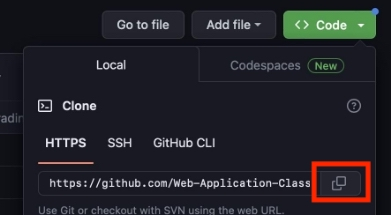
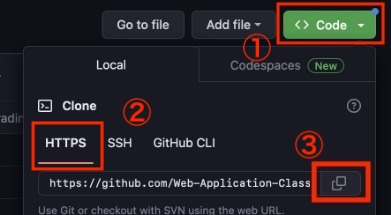
資料修正

diff --git a/clone.md b/clone.md
@@ -21,11 +21,10 @@ GitHub Classroomからコードを取得します。
 ![](./images/join_the_classroom.png){: style="width: 660px;height: auto;" }<br><br>
 1. `Accept this assignment`をクリック<br>
 ![](./images/accept-assignment.png){: style="width: 660px;height: auto;" }<br><br>
-1. コード取得用のリンクをクリック
+1. コード取得用のリンクをクリック<br>
    ※リンクが表示されない場合は、ブラウザをリロードしてください。<br>
 ![](./images/repository_link.png){: style="width: 660px;height: auto;" }<br><br>
-1. 緑色のボタン(<>Code)をクリック
-2. HTTPSタブを選び、コピー用ボタンでURLをコピー<br>
+1. 「①緑色のボタン(<>Code)」 → 「②HTTPSタブ」 → 「③コピー用ボタン」をクリックし、clone用URLをコピー<br>
 ![](./images/Aspose.Words.aedafcf0-3819-4263-af12-50337a38362b.013.jpeg){: style="width: 660px;height: auto;" }<br><br>
 1. Git Graphのアイコンをクリックし、リポジトリのクローンをクリック<br>
    ※`Ctrl+Shift+P`を押し、フォームに`git: clone`と入力しても同様の操作ができます。
